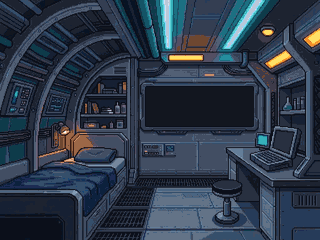
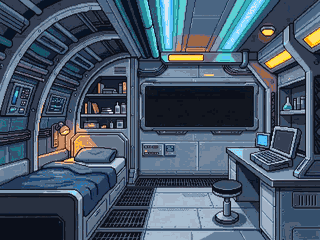
Room pictures evened out to the Engineering picture's brightness and colour (originals kept in art_src/rooms); crew tap areas on the bridge cover head to chair back
Claude-Session: https://claude.ai/code/session_01QsU1qWh9Lm4CoQ2smq7FHb

diff --git a/tablet/js/scene.js b/tablet/js/scene.js
@@ -82,8 +82,8 @@ export function createScene(stage, { onOpen }) {
     frame,
     hs('COMMS', 240, 740, 280, 200, () => onOpen('comms'), 'top'),        // the comms console, left
     hs('SENSORS', 1420, 740, 260, 200, () => onOpen('sensors'), 'top'),   // the sensors console, right
-    hs('NICOLE', 74, 640, 160, 210, () => onOpen('talk-communications'), 'top'),   // Nicole at comms: tap her to talk
-    hs('ALEX', 1690, 630, 190, 210, () => onOpen('talk-sensors'), 'top'),          // Alex at sensors
+    hs('NICOLE', 0, 640, 238, 540, () => onOpen('talk-communications'), 'top'),   // Nicole at comms, head to chair back: tap her to talk
+    hs('ALEX', 1684, 630, 236, 550, () => onOpen('talk-sensors'), 'top'),          // Alex at sensors, head to chair back
     hs('WALKWAY', 0, 1332, 1920, 108, () => onOpen('walkway'), 'mid'),   // the bottom edge leaves the bridge
   );
 

diff --git a/sw.js b/sw.js
@@ -2,7 +2,7 @@
    falls back to the saved copy when offline or slow. Covers the iPad game (tablet/) and the
    iPhone PED (ped/). Only same-origin GET requests are handled: GitHub sync calls go straight to
    the network. Run `python3 tools/update_sw.py` after adding or renaming files. */
-const VERSION = 'ffaa2ce731';
+const VERSION = '7b7a04a19e';
 const CACHE = 'aquanova-' + VERSION;
 const ASSETS = [
  "tablet/",

diff --git a/tools/even_palette.py b/tools/even_palette.py
@@ -1,0 +1,83 @@
+#!/usr/bin/env python3
+"""Even out the room pictures (owner, 2026-11-27): every room gets the brightness and colour cast of the Engineering picture.
+The untouched originals live in art_src/rooms/ (outside the game folders, so they are not served or cached). This script reads them,
+writes the matched pictures into tablet/retro/assets/ (<room>_original.*), and makes the Retro copies again (320x240, palette, no dither).
+How: in CIE Lab, lightness is histogram-matched to Engineering's; the colour channels a and b are shifted and scaled to Engineering's mean
+and spread. Transparent pixels (the bridge's screen holes) are left alone and are not counted.
+   python3 tools/even_palette.py            (all rooms)      python3 tools/even_palette.py walkway   (one room)
+A new room picture: put the owner's file in art_src/rooms/ as <room>_original.jpg (or .png), then run this."""
+import os, sys, json, shutil
+import numpy as np
+from PIL import Image
+ROOT = os.path.dirname(os.path.dirname(os.path.abspath(__file__)))
+SRC, OUT = os.path.join(ROOT, 'art_src', 'rooms'), os.path.join(ROOT, 'tablet', 'retro', 'assets')
+REF = 'engineering'
+ROOMS = ['bridge', 'walkway', 'walkway2', 'quarters', 'science', 'launchbay', 'medbay', 'engineering']
+STRENGTH = 0.85   # 1 = match Engineering exactly; a little less keeps a trace of each room's own mood
+
+def fname(room): return f'{room}_original.png' if room == 'bridge' else f'{room}_original.jpg'
+
+# ---- sRGB <-> Lab (D65) ----
+M = np.array([[0.4124564, 0.3575761, 0.1804375], [0.2126729, 0.7151522, 0.0721750], [0.0193339, 0.1191920, 0.9503041]])
+Mi = np.linalg.inv(M); WP = np.array([0.95047, 1.0, 1.08883])
+def to_lab(rgb):
+    c = rgb / 255.0; c = np.where(c <= 0.04045, c / 12.92, ((c + 0.055) / 1.055) ** 2.4)
+    xyz = c @ M.T / WP; f = np.where(xyz > 216 / 24389, np.cbrt(xyz), (24389 / 27 * xyz + 16) / 116)
+    return np.stack([116 * f[..., 1] - 16, 500 * (f[..., 0] - f[..., 1]), 200 * (f[..., 1] - f[..., 2])], -1)
+def to_rgb(lab):
+    fy = (lab[..., 0] + 16) / 116; fx = fy + lab[..., 1] / 500; fz = fy - lab[..., 2] / 200
+    f = np.stack([fx, fy, fz], -1); xyz = np.where(f ** 3 > 216 / 24389, f ** 3, (116 * f - 16) / (24389 / 27)) * WP
+    c = xyz @ Mi.T; c = np.where(c <= 0.0031308, 12.92 * c, 1.055 * np.clip(c, 0, None) ** (1 / 2.4) - 0.055)
+    return np.clip(c * 255 + 0.5, 0, 255).astype(np.uint8)
+
+def load(path):
+    im = Image.open(path); a = np.array(im.convert('RGBA')).astype(np.float64)
+    return im, a[..., :3], a[..., 3]
+def match(rgb, alpha, ref_lab, ref_L_sorted):
+    lab = to_lab(rgb); m = alpha > 8; out = lab.copy()
+    # lightness: histogram match (rank of each pixel -> the reference value at that rank)
+    L = lab[..., 0][m]; order = np.argsort(L, kind='stable'); ranks = np.empty_like(order); ranks[order] = np.arange(L.size)
+    target = ref_L_sorted[(ranks * (ref_L_sorted.size - 1) / max(1, L.size - 1)).astype(int)]
+    out[..., 0][m] = L + (target - L) * STRENGTH
+    # colour: mean and spread of a and b
+    for k in (1, 2):
+        v = lab[..., k][m]; rv = ref_lab[..., k]
+        moved = (v - v.mean()) * (rv.std() / max(1e-6, v.std())) + rv.mean()
+        out[..., k][m] = v + (moved - v) * STRENGTH
+    return to_rgb(out)
+
+def snap(img_rgb, alpha=None):
+    d = json.load(open(os.path.join(ROOT, 'data', 'palette.json'))); c = d if isinstance(d, list) else d.get('colors', d)
+    pal = [tuple(int(h[i:i + 2], 16) for i in (1, 3, 5)) for h in c]
+    flat = [v for p in pal for v in p]; flat += flat[:3] * (256 - len(pal))
+    pi = Image.new('P', (1, 1)); pi.putpalette(flat)
+    q = img_rgb.quantize(palette=pi, dither=Image.NONE).convert('RGB')
+    if alpha is not None: q = q.convert('RGBA'); q.putalpha(alpha)
+    return q
+
+def main():
+    os.makedirs(SRC, exist_ok=True)
+    for r in ROOMS:   # first run: keep the untouched originals (and the owner's bridge pixel frame)
+        for f in [fname(r)] + (['bridge.png'] if r == 'bridge' else []):
+            if not os.path.exists(os.path.join(SRC, f)): shutil.copy2(os.path.join(OUT, f), os.path.join(SRC, f))
+    _, rrgb, ralpha = load(os.path.join(SRC, fname(REF)))
+    ref_lab = to_lab(rrgb)[ralpha > 8]; ref_L = np.sort(ref_lab[:, 0])
+    rooms = sys.argv[1:] or ROOMS
+    for r in rooms:
+        im, rgb, alpha = load(os.path.join(SRC, fname(r)))
+        if r == REF: res = rgb.astype(np.uint8)
+        else: res = match(rgb, alpha, ref_lab, ref_L)
+        out = Image.fromarray(res, 'RGB')
+        if r == 'bridge':
+            o = out.convert('RGBA'); o.putalpha(Image.fromarray(alpha.astype(np.uint8))); o.save(os.path.join(OUT, fname(r)), optimize=True)
+            # the Retro bridge is the owner's own 320x240 pixel frame: the same correction, then back onto the palette
+            _, brgb, balpha = load(os.path.join(SRC, 'bridge.png'))
+            b = Image.fromarray(match(brgb, balpha, ref_lab, ref_L), 'RGB')
+            snap(b, Image.fromarray(balpha.astype(np.uint8))).save(os.path.join(OUT, 'bridge.png'))
+        else:
+            out.save(os.path.join(OUT, fname(r)), quality=92, optimize=True)
+            snap(out.resize((320, 240), Image.LANCZOS)).save(os.path.join(OUT, f'{r}.png'))
+        print('evened', r)
+
+if __name__ == '__main__':
+    main()

diff --git a/docs/HANDOFF.md b/docs/HANDOFF.md
@@ -1,6 +1,6 @@
 # Handoff (read this first when a session starts; update it before parking)
 
-Last updated: 2026-11-26. Branch to work on: `tablet`. Repo: NickWest27/AquaNova (GitHub Pages path `/AquaNova/`). Last change: the owner's testing list (below, all 18 items); before that the quarters wall screen cycles NAV, synthetic vision, sonar, WSKRs and ship status (`quartersScreen.js`, tap = next page, 10 s each; test `tools/quarters_screen_test.py`); pushing the trials for records with a risk of light damage (`trials.js`); story bible brought up to date; before that Sea Trials became the commissioning trip to the Trials AO (welcome letter in the logbook, commissioning orders by mail, Welcome to the AO mail; nav, eng and super cruise commissioned in steps; see the tutorial table in `docs/COMMS_AND_PROGRESSION.md`); before that the owner's welcome letter in the logbook; before that general alarm (ARIA order + engineering button; red lighting and frames; faster fire/flood response if sounded first; see `docs/ENGINEERING.md`); before that the Engineering room shows the ship's state (core glow amber/red, live console screens, red alarm for fire/flooding; see `docs/ENGINEERING.md`); before that the engineering computer; before that the 90s dialogue screen for Nicole; before that Nicole's portrait; before that walkway AN-1 and Engineering on the owner's pictures (every room is now 4:3); before that site survey (`survey.js`, Survey site on SONAR, Seabed survey missions) and the XO tends Remora before getting under way; before that Remora's tether parts past its length, the Tern fetches her (`tools/tether_test.py`); before that PED, communicator and corner buttons in the 4:3 box; before that Launch Bay as instruments, WSKRs have their own launch bays, standard target readout (`readout.js`), Full sweep 36 s; before that station pages are a 4:3 page (1024 x 768) scaled like the stage; before that pages fit the screen (`tools/fit_test.py`) and Sensors has SONAR and WSKRs only; before that contact tracking (detection chance, names belong to tracks, probable matches, signatures on file: `docs/CONTACT_TRACKING.md`); before that identified ships saved; before that one zoom direction everywhere ("+" zooms in) and round map zoom buttons; before that the bridge original picture with real transparent holes; before that the medbay on the owner's picture (after bridge, walkway A1, quarters, science lab, launch bay).
+Last updated: 2026-11-26. Branch to work on: `tablet`. Repo: NickWest27/AquaNova (GitHub Pages path `/AquaNova/`). Last change: room pictures evened out to the Engineering picture's brightness and colour (`tools/even_palette.py`; the untouched originals are in `art_src/rooms/`, outside the served folders: a new room picture goes there first, then run the script, which also remakes the Retro copies); bigger crew tap areas on the bridge; before that the owner's testing list (below, all 18 items); before that the quarters wall screen cycles NAV, synthetic vision, sonar, WSKRs and ship status (`quartersScreen.js`, tap = next page, 10 s each; test `tools/quarters_screen_test.py`); pushing the trials for records with a risk of light damage (`trials.js`); story bible brought up to date; before that Sea Trials became the commissioning trip to the Trials AO (welcome letter in the logbook, commissioning orders by mail, Welcome to the AO mail; nav, eng and super cruise commissioned in steps; see the tutorial table in `docs/COMMS_AND_PROGRESSION.md`); before that the owner's welcome letter in the logbook; before that general alarm (ARIA order + engineering button; red lighting and frames; faster fire/flood response if sounded first; see `docs/ENGINEERING.md`); before that the Engineering room shows the ship's state (core glow amber/red, live console screens, red alarm for fire/flooding; see `docs/ENGINEERING.md`); before that the engineering computer; before that the 90s dialogue screen for Nicole; before that Nicole's portrait; before that walkway AN-1 and Engineering on the owner's pictures (every room is now 4:3); before that site survey (`survey.js`, Survey site on SONAR, Seabed survey missions) and the XO tends Remora before getting under way; before that Remora's tether parts past its length, the Tern fetches her (`tools/tether_test.py`); before that PED, communicator and corner buttons in the 4:3 box; before that Launch Bay as instruments, WSKRs have their own launch bays, standard target readout (`readout.js`), Full sweep 36 s; before that station pages are a 4:3 page (1024 x 768) scaled like the stage; before that pages fit the screen (`tools/fit_test.py`) and Sensors has SONAR and WSKRs only; before that contact tracking (detection chance, names belong to tracks, probable matches, signatures on file: `docs/CONTACT_TRACKING.md`); before that identified ships saved; before that one zoom direction everywhere ("+" zooms in) and round map zoom buttons; before that the bridge original picture with real transparent holes; before that the medbay on the owner's picture (after bridge, walkway A1, quarters, science lab, launch bay).
 
 ## Owner's testing list (2026-11-26): all done 2026-11-27, waiting for the owner to test on the iPad
 Rooms and signs
